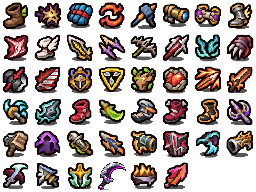
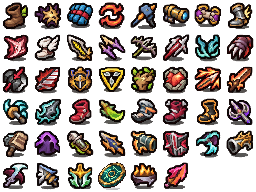
Bring Axiom Arc and Vampiric Scepter closer to League references

Changed region(s): [[0.375, 0.8438, 0.5, 1.0]]

diff --git a/tools/build_item_components.py b/tools/build_item_components.py
@@ -1,7 +1,7 @@
 """Add pinned crafting dependencies to the 46-item native catalog.
 
-Run after build_isaac_items.py. Rendered icons come from three original,
-transparent 3x3 sheets. Riot metadata and reference icons remain pinned.
+Run after build_isaac_items.py. Rendered icons come from original transparent
+sprite sheets. Riot metadata and reference icons remain pinned.
 """
 from pathlib import Path
 from xml.etree import ElementTree as ET
@@ -63,13 +63,15 @@ def adaptation(item_id, entry):
 
 def component_icons():
     art, atlases = {}, []
-    for sheet, ids in enumerate(SHEETS, 1):
-        path = SOURCES.parent / f'components-stylized-{sheet}.png'
-        tiles, _, digest = slice_atlas(path, 3, 3, len(ids))
+    sources = [(f'components-stylized-{sheet}.png', 3, ids) for sheet, ids in enumerate(SHEETS, 1)]
+    sources.append(('components-stylized-vampiric.png', 1, (1053,)))
+    for filename, columns, ids in sources:
+        path = SOURCES.parent / filename
+        tiles, _, digest = slice_atlas(path, columns, columns, len(ids))
         asset = path.relative_to(ROOT).as_posix()
         atlases.append({'asset': asset, 'sha256': digest})
         for index, (riot_id, tile) in enumerate(zip(ids, tiles, strict=True)):
-            art[riot_id] = (encode_png(tile), asset, [index % 3, index // 3])
+            art[riot_id] = (encode_png(tile), asset, [index % columns, index // columns])
     return art, atlases
 
 def main():
@@ -119,7 +121,7 @@ def main():
         'source': 'Riot Data Dragon (original icon references)',
         'version': '16.22.1',
         'styled_atlases': atlases,
-        'conversion': 'Slice 3x3, trim the transparent fringe, and fit into 32x32 RGBA with 2px padding using nearest-neighbor.',
+        'conversion': 'Slice the sprite sheets, trim the transparent fringe, and fit into 32x32 RGBA with 2px padding using nearest-neighbor.',
         'icons': icons,
     }
     (ROOT/'docs/components-icons.lock.json').write_text(json.dumps(icon_lock, indent=2)+'\n', encoding='utf8')

diff --git a/docs/components-provenance.md b/docs/components-provenance.md
@@ -6,6 +6,8 @@
 
 Для 27 компонентов нарисованы новые спрайты в трёх прозрачных атласах `assets/samira-items/components-stylized-*.png`. Встроенный ImageGen получил существующий атлас мода как референс стиля и отдельные описания предметов. Запрос задавал сетку 3×3, тёмный ступенчатый контур, ограниченную палитру, компактный силуэт и небольшую серую тень. Скрипт `tools/build_item_components.py` вырезает ячейки, масштабирует их методом ближайшего соседа и центрирует в прозрачном поле 32×32. Оригинальные PNG из Data Dragon сохранены в `assets/samira-items/components/` как источники. Пути, ячейки и SHA-256 указаны в `components-icons.lock.json`.
 
-Шакрам Аксиом использует отдельный спрайт `assets/samira-items/axiom-arc-stylized.png` из встроенного ImageGen. Запрос описывал компактный стальной клинок-полумесяц с яркой пурпурной кромкой, тёмной рукоятью и серой тенью. `tools/build_isaac_items.py` подставляет спрайт и в общий атлас, и в отдельный файл предмета.
+Vampiric Scepter использует отдельный спрайт `assets/samira-items/components-stylized-vampiric.png`. В референсе Riot выделены крюкообразная золотая головка, красная вставка и изогнутая тёмная рукоять.
+
+Шакрам Аксиом использует отдельный спрайт `assets/samira-items/axiom-arc-stylized.png` из встроенного ImageGen. Референс Riot задал наклонённый бирюзовый диск, бронзовый обод и светлый знак на лицевой стороне. `tools/build_isaac_items.py` подставляет спрайт и в общий атлас, и в отдельный файл предмета.
 
 Цена компонентов — округлённая цена Riot / 140 (не менее 2 монет). Стоимость сборки равна разнице между прежней ценой результата и суммой цен компонентов, но не меньше нуля. Для некоторых веток округление и прежние цены приводят к бесплатной сборке; покупка компонентов всё равно требует монет. Характеристики и пассивные эффекты адаптированы к Isaac, а не воспроизводят полную механику League of Legends.
